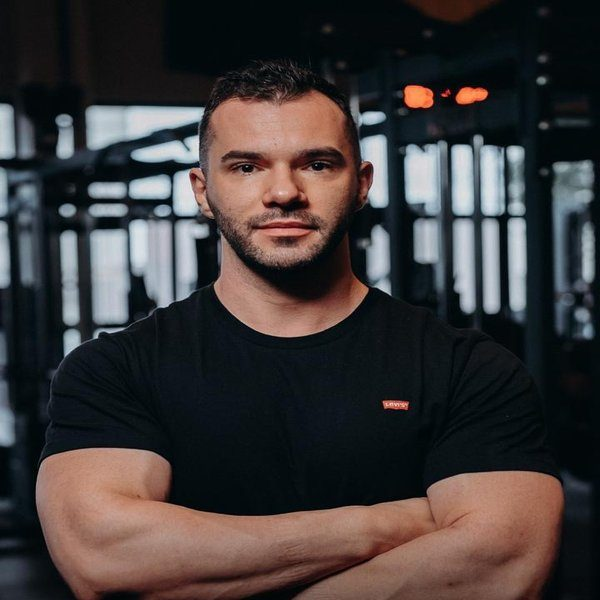
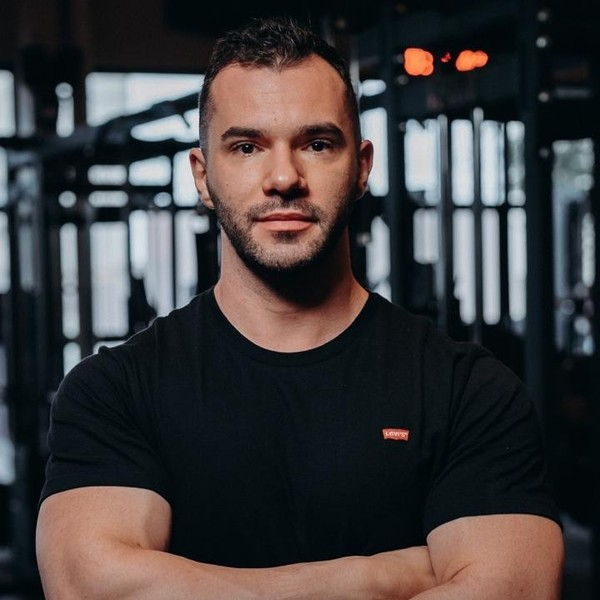
CDD: foto do Luiz na proporcao correta nas paginas e na previa de links

diff --git a/cdd/lp-treinador.html b/cdd/lp-treinador.html
@@ -12,14 +12,14 @@
 <meta property="og:locale" content="pt_BR">
 <meta property="og:title" content="O método do treinador Luiz Nunes para definição muscular">
 <meta property="og:description" content="O método do treinador Luiz Nunes para mulheres que querem definição muscular: programa de treino em fases, com técnica, progressão e acompanhamento.">
-<meta property="og:image" content="https://codigodadefinicao.com.br/app/marca/lp/og.jpg">
+<meta property="og:image" content="https://codigodadefinicao.com.br/app/marca/lp/og.jpg?v=2">
 <meta property="og:image:width" content="1200">
 <meta property="og:image:height" content="630">
 <meta property="og:image:alt" content="Código da Definição, programa de treino em fases para mulheres, com o treinador Luiz Nunes">
 <meta name="twitter:card" content="summary_large_image">
 <meta name="twitter:title" content="O método do treinador Luiz Nunes para definição muscular">
 <meta name="twitter:description" content="O método do treinador Luiz Nunes para mulheres que querem definição muscular: programa de treino em fases, com técnica, progressão e acompanhamento.">
-<meta name="twitter:image" content="https://codigodadefinicao.com.br/app/marca/lp/og.jpg">
+<meta name="twitter:image" content="https://codigodadefinicao.com.br/app/marca/lp/og.jpg?v=2">
 <link rel="icon" href="marca/icons/favicon.ico" sizes="any">
 <link rel="icon" type="image/png" sizes="32x32" href="marca/icons/icon-32.png">
 <link rel="icon" type="image/png" sizes="192x192" href="marca/icons/icon-192.png">
@@ -210,7 +210,7 @@
 <!-- 7. QUEM CRIOU -->
 <section class="s rv" id="quem">
   <div class="c quem">
-    <div class="foto-luiz"><img src="marca/lp/luiz.jpg" alt="Treinador Luiz Nunes" loading="lazy"><b>Luiz Nunes, CREF 25204-G/PR</b></div>
+    <div class="foto-luiz"><img src="marca/lp/luiz.jpg?v=2" alt="Treinador Luiz Nunes" loading="lazy"><b>Luiz Nunes, CREF 25204-G/PR</b></div>
     <div>
       <div class="eyebrow">Quem criou</div>
       <h2 class="h" data-k="t7" data-kl="Título (Treinador Luiz Nunes)">Treinador Luiz Nunes</h2>

diff --git a/cdd/lp-escura.html b/cdd/lp-escura.html
@@ -13,14 +13,14 @@
 <meta property="og:title" content="Código da Definição">
 <meta property="og:description" content="Programa de treino em fases para mulheres que querem definição muscular com técnica e progressão. Com o treinador Luiz Nunes.">
 <meta property="og:url" content="https://codigodadefinicao.com.br/">
-<meta property="og:image" content="https://codigodadefinicao.com.br/app/marca/lp/og.jpg">
+<meta property="og:image" content="https://codigodadefinicao.com.br/app/marca/lp/og.jpg?v=2">
 <meta property="og:image:width" content="1200">
 <meta property="og:image:height" content="630">
 <meta property="og:image:alt" content="Código da Definição, programa de treino em fases para mulheres, com o treinador Luiz Nunes">
 <meta name="twitter:card" content="summary_large_image">
 <meta name="twitter:title" content="Código da Definição">
 <meta name="twitter:description" content="Programa de treino em fases para mulheres que querem definição muscular com técnica e progressão. Com o treinador Luiz Nunes.">
-<meta name="twitter:image" content="https://codigodadefinicao.com.br/app/marca/lp/og.jpg">
+<meta name="twitter:image" content="https://codigodadefinicao.com.br/app/marca/lp/og.jpg?v=2">
 <link rel="icon" href="marca/icons/favicon.ico" sizes="any">
 <link rel="icon" type="image/png" sizes="32x32" href="marca/icons/icon-32.png">
 <link rel="icon" type="image/png" sizes="192x192" href="marca/icons/icon-192.png">
@@ -328,7 +328,7 @@
 <!-- 7. QUEM CRIOU -->
 <section class="s rv">
   <div class="c quem">
-    <div class="foto-luiz"><img src="marca/lp/luiz.jpg" alt="Treinador Luiz Nunes" loading="lazy"><b>Luiz Nunes, CREF 25204-G/PR</b></div>
+    <div class="foto-luiz"><img src="marca/lp/luiz.jpg?v=2" alt="Treinador Luiz Nunes" loading="lazy"><b>Luiz Nunes, CREF 25204-G/PR</b></div>
     <div>
       <div class="eyebrow">Quem criou</div>
       <h2 class="h" data-k="t7" data-kl="Título (Treinador Luiz Nunes)">Treinador Luiz Nunes</h2>

diff --git a/cdd/lp-direta.html b/cdd/lp-direta.html
@@ -12,14 +12,14 @@
 <meta property="og:locale" content="pt_BR">
 <meta property="og:title" content="Código da Definição: treino em fases para mulheres">
 <meta property="og:description" content="Programa de treino em fases para mulheres, com vídeo em cada exercício, diário de treino e acompanhamento da equipe. Criado pelo treinador Luiz Nunes.">
-<meta property="og:image" content="https://codigodadefinicao.com.br/app/marca/lp/og.jpg">
+<meta property="og:image" content="https://codigodadefinicao.com.br/app/marca/lp/og.jpg?v=2">
 <meta property="og:image:width" content="1200">
 <meta property="og:image:height" content="630">
 <meta property="og:image:alt" content="Código da Definição, programa de treino em fases para mulheres, com o treinador Luiz Nunes">
 <meta name="twitter:card" content="summary_large_image">
 <meta name="twitter:title" content="Código da Definição: treino em fases para mulheres">
 <meta name="twitter:description" content="Programa de treino em fases para mulheres, com vídeo em cada exercício, diário de treino e acompanhamento da equipe. Criado pelo treinador Luiz Nunes.">
-<meta name="twitter:image" content="https://codigodadefinicao.com.br/app/marca/lp/og.jpg">
+<meta name="twitter:image" content="https://codigodadefinicao.com.br/app/marca/lp/og.jpg?v=2">
 <link rel="icon" href="marca/icons/favicon.ico" sizes="any">
 <link rel="icon" type="image/png" sizes="32x32" href="marca/icons/icon-32.png">
 <link rel="icon" type="image/png" sizes="192x192" href="marca/icons/icon-192.png">

diff --git a/cdd/captura.html b/cdd/captura.html
@@ -12,14 +12,14 @@
 <meta property="og:title" content="Quero conhecer o Código da Definição">
 <meta property="og:description" content="Deixe o seu contato e a equipe explica como o programa funciona, sem compromisso.">
 <meta property="og:url" content="https://codigodadefinicao.com.br/app/captura">
-<meta property="og:image" content="https://codigodadefinicao.com.br/app/marca/lp/og.jpg">
+<meta property="og:image" content="https://codigodadefinicao.com.br/app/marca/lp/og.jpg?v=2">
 <meta property="og:image:width" content="1200">
 <meta property="og:image:height" content="630">
 <meta property="og:image:alt" content="Código da Definição, programa de treino em fases para mulheres, com o treinador Luiz Nunes">
 <meta name="twitter:card" content="summary_large_image">
 <meta name="twitter:title" content="Quero conhecer o Código da Definição">
 <meta name="twitter:description" content="Deixe o seu contato e a equipe explica como o programa funciona, sem compromisso.">
-<meta name="twitter:image" content="https://codigodadefinicao.com.br/app/marca/lp/og.jpg">
+<meta name="twitter:image" content="https://codigodadefinicao.com.br/app/marca/lp/og.jpg?v=2">
 <link rel="icon" href="marca/icons/favicon.ico" sizes="any">
 <link rel="icon" type="image/png" sizes="32x32" href="marca/icons/icon-32.png">
 <link rel="icon" type="image/png" sizes="192x192" href="marca/icons/icon-192.png">

diff --git a/cdd/index.html b/cdd/index.html
@@ -11,14 +11,14 @@
 <meta property="og:title" content="Código da Definição">
 <meta property="og:description" content="Entre no app do Código da Definição, o programa de treino em fases para mulheres.">
 <meta property="og:url" content="https://codigodadefinicao.com.br/app/">
-<meta property="og:image" content="https://codigodadefinicao.com.br/app/marca/lp/og.jpg">
+<meta property="og:image" content="https://codigodadefinicao.com.br/app/marca/lp/og.jpg?v=2">
 <meta property="og:image:width" content="1200">
 <meta property="og:image:height" content="630">
 <meta property="og:image:alt" content="Código da Definição, programa de treino em fases para mulheres, com o treinador Luiz Nunes">
 <meta name="twitter:card" content="summary_large_image">
 <meta name="twitter:title" content="Código da Definição">
 <meta name="twitter:description" content="Entre no app do Código da Definição, o programa de treino em fases para mulheres.">
-<meta name="twitter:image" content="https://codigodadefinicao.com.br/app/marca/lp/og.jpg">
+<meta name="twitter:image" content="https://codigodadefinicao.com.br/app/marca/lp/og.jpg?v=2">
 <meta name="apple-mobile-web-app-capable" content="yes">
 <meta name="mobile-web-app-capable" content="yes">
 <meta name="apple-mobile-web-app-title" content="CDD">

diff --git a/cdd/lp-mulheres.html b/cdd/lp-mulheres.html
@@ -14,7 +14,7 @@
 <meta property="og:title" content="Quando o corpo para de responder, a estratégia muda">
 <meta property="og:description" content="Programa de treino em fases para mulheres, com acompanhamento. Código da Definição, com o treinador Luiz Nunes.">
 <meta property="og:url" content="https://codigodadefinicao.com.br/app/mulheres">
-<meta property="og:image" content="https://codigodadefinicao.com.br/app/marca/lp/og.jpg">
+<meta property="og:image" content="https://codigodadefinicao.com.br/app/marca/lp/og.jpg?v=2">
 <meta name="twitter:card" content="summary_large_image">
 <link rel="icon" href="marca/icons/favicon.ico" sizes="any">
 <link rel="icon" type="image/png" sizes="32x32" href="marca/icons/icon-32.png">
@@ -353,7 +353,7 @@
 <!-- 10. QUEM -->
 <section class="s rv">
   <div class="c quem">
-    <div class="foto"><img src="marca/lp/luiz.jpg" alt="Treinador Luiz Nunes" loading="lazy"></div>
+    <div class="foto"><img src="marca/lp/luiz.jpg?v=2" alt="Treinador Luiz Nunes" loading="lazy"></div>
     <div>
       <div class="eyebrow">Quem caminha com você</div>
       <h2 class="h" data-k="t10" data-kl="Título (Treinador Luiz Nunes e equipe)">Treinador <em>Luiz Nunes</em> e equipe</h2>

diff --git a/tools/cdd/preparar-imagens-lp.py b/tools/cdd/preparar-imagens-lp.py
@@ -28,5 +28,5 @@ for n, fonte in enumerate(['img_0975', 'img_0978', 'img_0979', 'img_0981', 'img_
     salvar(Image.open(os.path.join(RAIZ, 'img', fonte + '.png')), f'resultado-{n}', 720, 80)
 
 # Luiz
-salvar(Image.open(os.path.join(RAIZ, 'img', 'prof-luiz.jpg')), 'luiz', 900, 82)
+salvar(Image.open(os.path.join(RAIZ, 'fotos-site', 'luiz-nunes-equipe.jpg')), 'luiz', 900, 82)  # a img/prof-luiz.jpg esta achatada
 salvar(Image.open(os.path.join(RAIZ, 'img', 'luiz.jpg')), 'luiz-2', 900, 82)
